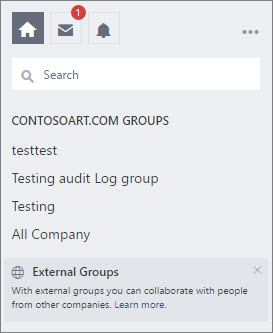
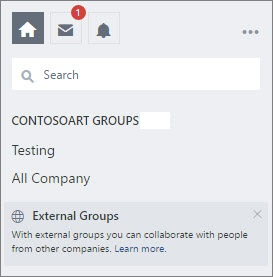
Clarify domain and group topics

diff --git a/yammer/configure-your-yammer-network/manage-yammer-domains.md b/yammer/configure-your-yammer-network/manage-yammer-domains.md
@@ -72,12 +72,13 @@ To change the displayed network name shown below, change the **name** in the Off
  
    ![List of Yammer groups on the Yammer page](../media/0a1125b1-74d2-4ea5-b8e4-6d52456a527e.jpg)
   
-## Change the default domain
-When the default domain changes in Office 365 to a verified domain, for example, contosoart.com, the primary domain of the corresponding Yammer network is updated. The updated Yammer primary domain, for example, contosoart.com, is used whenever you invite a new user to Yammer.
+## Change the Yammer primary domain
+
+If you have just one domain in Office 365, when the default domain changes in Office 365 to a verified domain, the primary domain of the corresponding Yammer network is updated. The updated Yammer primary domain, for example, contosoart.com, is used whenever you invite a new user to Yammer.
     
    ![The primary domain shows when you invite users to your Yammer group](../media/5d98c158-3ce4-4404-97e9-1557382216e8.png)
   
-If the default domain is the initial domain that ends with .onmicrosoft.com, or the Office 365 tenant is associated with more than one Yammer network, the primary domain of the corresponding Yammer network will not be updated.
+If the default domain is the initial domain that ends with .onmicrosoft.com, or if your Office 365 tenant has multiple domains, the primary domain of the corresponding Yammer network will not be updated.
   
 ## If your Yammer network has domains not verified on the Office 365 tenant
 

diff --git a/yammer/yammer-landing-page.md b/yammer/yammer-landing-page.md
@@ -228,6 +228,7 @@ Build communities and collaboration in your organization with Yammer.
                         <h3>Manage groups</h3>
                         <p><a href="https://support.office.com/en-us/article/Create-a-group-in-Yammer-b407af4f-9a58-4b12-b43e-afbb1b07c889" data-linktype="absolute-path">Create a Yammer group</a></p> 
                         <p><a href="https://support.office.com/en-us/article/manage-a-group-in-yammer-6e05c6d6-5548-4c88-89cd-e6757a514ef2" data-linktype="absolute-path">Manage a Yammer group</a></p> 
+                        <p><a href="https://support.office.com/en-us/article/f03ab85a-c1d9-4611-ab92-a3b46d747053" data-linktype="absolute-path">Delete a Yammer group</a></p> 
                         <p><a href="/en-us/Yammer/manage-yammer-groups/yammer-and-office-365-groups" data-linktype="absolute-path">Yammer and Office 365 connected groups</a></p>                         
                         <p><a href="https://support.office.com/en-us/article/delete-a-group-ca7f5a9e-ae4f-4cbe-a4bc-89c469d1726f?ui=en-US&rs=en-US&ad=US" data-linktype="absolute-path">Delete an Office 365 group</a></p> 
                         <p><a href="https://support.office.com/en-us/article/office-365-groups-naming-policy-6ceca4d3-cad1-4532-9f0f-d469dfbbb552?ui=en-US&rs=en-US&ad=US" data-linktype="absolute-path">Office 365 groups naming policy</a></p> 

diff --git a/yammer/configure-your-yammer-network/FAQ-consolidate-multiple-yammer-networks.md b/yammer/configure-your-yammer-network/FAQ-consolidate-multiple-yammer-networks.md
@@ -104,7 +104,9 @@ A: We understand that some organizations might have a variety of business and le
 
 **Q: What if I need to move data from the secondary Yammer networks to the primary Yammer network?**  
 
-A: Yammer doesn’t offer this functionality. We only offer the option to export all of one network’s data into a zip folder. However, there are Microsoft partners that provide this service. If you’re interested, please reach out to our support team so that we can put you in touch with our partners. To contact support, see Contact support for business products. Instructions for exporting data can be found in Export data from Yammer Enterprise and Export data from Yammer Basic. 
+A: Yammer doesn’t offer this functionality. We only offer the option to export all of one network’s data into a zip folder. Instructions for exporting data can be found in [Export data from Yammer Enterprise](../manage-security-and-compliance/export-yammer-enterprise-data.md).
+
+There are Microsoft partners that can help you move data. If you’re interested, please reach out to your Microsoft Account Team, or [contact a partner](https://products.office.com/en-us/yammer/partners).  
 
 **Q: What happens if a new Yammer network is added after the due date?**  
 

diff --git a/yammer/configure-your-yammer-network/configure-yammer.md b/yammer/configure-your-yammer-network/configure-yammer.md
@@ -31,7 +31,8 @@ To access the Yammer network configuration tools:
 ## Set the Yammer network name
 <a name="NetworkName"> </a>
 
-> [!IMPORTANT] In Office 365 Yammer networks, the name in the Office 365 company profile overrides the **Network name** setting in Yammer. To change the Office 365 company profile settings, see [Change your organization's address, technical contact, and more](https://support.office.com/en-us/article/Change-your-organization-s-address-technical-contact-and-more-a36e5a52-4df2-479e-bb97-9e67b8483e10)
+> [!IMPORTANT] 
+> In Office 365 Yammer networks, the name in the Office 365 company profile overrides the **Network name** setting in Yammer. To change the Office 365 company profile settings, see [Change your organization's address, technical contact, and more](https://support.office.com/en-us/article/Change-your-organization-s-address-technical-contact-and-more-a36e5a52-4df2-479e-bb97-9e67b8483e10)
 
 - On the **Configuration** page, in the **Basics** section, specify the following: 
     

diff --git a/yammer/manage-yammer-groups/yammer-and-office-365-groups.md b/yammer/manage-yammer-groups/yammer-and-office-365-groups.md
@@ -94,8 +94,12 @@ A: No. That setting is not available for Office 365 connected Yammer groups.
 
 **Q: Can I use an existing group or SharePoint site for an Office 365 connected Yammer group?**
 
-A: No, a new group and resources specific to that new group are created when you create an Office 365 connected group in Yammer. You can't connect it to an existing Office 365 group, an existing SharePoint site or SharePoint document library, or an existing OneNote notebook.
+A: No, a new group and resources specific to that new group are created when you create an Office 365 connected group in Yammer. You can't connect a new Yammer group to an existing Office 365 group, an existing SharePoint site or SharePoint document library, or an existing OneNote notebook.
   
+**Q: Can I hide an Office 365 connected group from the Global Address Book?**
+
+A: Yes. Set-mailbox -identity SMO-Teamwebsite -HiddenFromAddressListsEnabled $true
+
  **Q: Where can I create Office 365 connected Yammer groups?**
   
 A: Only in Yammer.

diff --git a/yammer/TOC.md b/yammer/TOC.md
@@ -46,6 +46,7 @@
 ### [External messaging FAQ](work-with-external-users/external-messaging-faq.md)
 ## [Manage Yammer groups](manage-yammer-groups/yammer-and-office-365-groups.md)
 ### [Yammer and Office 365 groups](manage-yammer-groups/yammer-and-office-365-groups.md)
+### [Delete a Yammer group](https://support.office.com/en-us/article/f03ab85a-c1d9-4611-ab92-a3b46d747053)
 ### [Create a dynamic group](manage-yammer-groups/create-a-dynamic-group.md)
 ### [Live events in Yammer](manage-yammer-groups/yammer-live-events.md)
 ## [Integrate Yammer with other apps](integrate-yammer-with-other-apps/integrate-with-other-applications.md)
